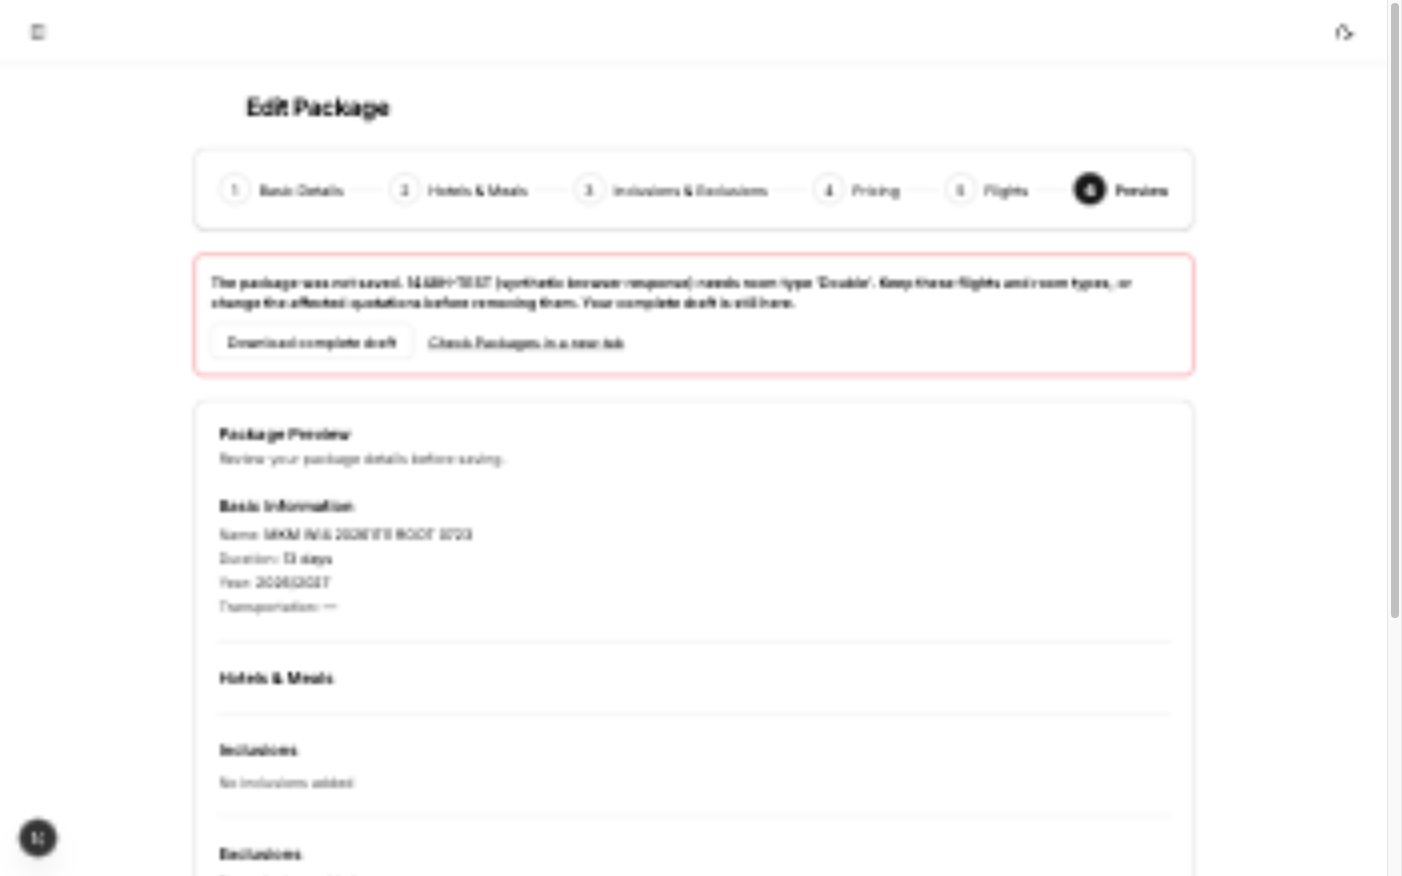
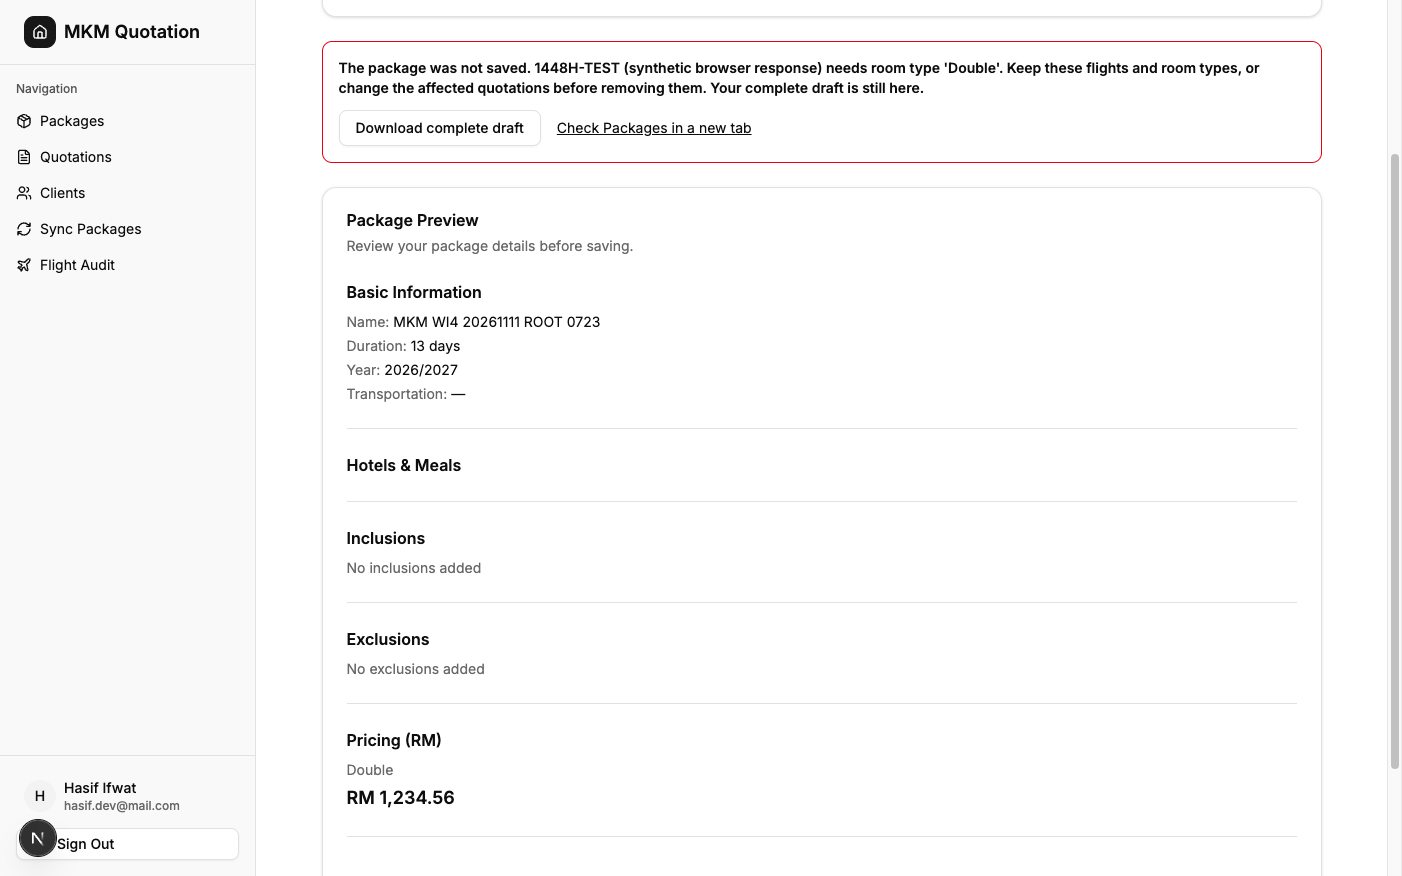
docs(verification): replace transition captures with settled feedback

diff --git a/docs/verification/issue-11-protect-references.md b/docs/verification/issue-11-protect-references.md
@@ -60,15 +60,13 @@ After restoring real fetch, a deliberate Save succeeded. The separate tab reload
 
 ![Typed reference rejection injected at fetch, with retained draft](issue-11-protect-references/rejection.png)
 
-![Room import previews the owned package](issue-11-protect-references/import.png)
-
-![Permitted edit persists after reload](issue-11-protect-references/reload.png)
-
 ![A separate listing confirms persisted duration](issue-11-protect-references/list.png)
 
 Only the owned package was archived after checking its unique name and ID. The filtered list then showed `No results.` The archived row remains stored. No client, quotation, or unrelated record changed. Sign-out returned to hydrated login controls. Both owned tabs were closed. The helper stopped and removed its private snapshot, including the copied environment. The worktree environment copy was removed. [Cleanup manifest](issue-11-protect-references/browser-cleanup.json) records process cleanup.
 
 ![The owned fixture is absent from the filtered list after archive](issue-11-protect-references/cleanup.png)
+
+Visual review found transition blur in the initial feedback, dialog, and reload captures. The blurred captures were removed. A second read-only capture run at `b39600f25e9abc3a05fd8269a5977421d3e99d46`, with identical product source, reopened the archived owned package and injected the same typed rejection. The settled replacement image above is clear. This run sent no real package writes and created no records. Initial navigation timed out during compilation, then the same owned tab reached hydrated login. Sign-out, tab closure, helper shutdown, and environment removal were repeated. [Capture manifest](issue-11-protect-references/capture-run.json) and [capture cleanup](issue-11-protect-references/capture-cleanup.json) record this evidence-only follow-up.
 
 Parent review inspected the product diff and independently reran all 259 tests, TypeScript, and whitespace checks successfully. The [independent review](issue-11-protect-references/review.md) found no blocker in the stated scope and zero added comments or suppressions. Optional external deslop and control-ui skills remain unavailable; direct diff inspection and the app verification skill supplied those checks. Cross-family trail review was unavailable under the Codex-only project configuration. The two [design](issue-11-protect-references/design-a.md) [candidates](issue-11-protect-references/design-b.md) and [decision log](issue-11-protect-references/decisions.tsv) preserve the choice.
 
